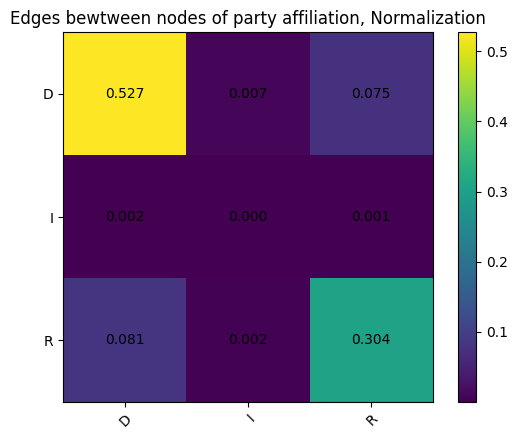
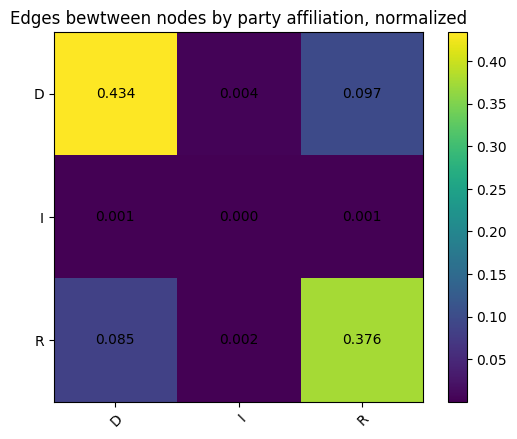
corrected text structure on index page

diff --git a/content/network-structure.md b/content/network-structure.md
@@ -21,35 +21,28 @@ To further investiage this, we compute the assortativity coefficient with respec
 
 ![](/images/matrixe.png)
 
-This results in an assortativity coefficient of 0.65. 
-This high party affiliation assortivity coefficient implies some social polarization based on party.
+This results in an assortativity coefficient of 0.62. 
+This high party affiliation assortivity coefficient implies social polarization based on party. With intra party communication of democrats and repuclicans being 30% and 50% of tweets respectively and inter party communication being 7.5% and 8.1% respectively.
 When doing this analysis it is important to mention that not all mentions/edges are communication betwee user, but some are simply members tagging or promoting other members campaigns. These have been included but arguments can be made for excluding them as they do not represent active conversation.
 
+## Community analysis based on party affiliation 
 <!-- Vi kigger nu på community party-party wise -->
-If we partition our network into 4 groups based on party affiliation, that is, a community for republicans, democrats, independents and non-alligned, we get a modularity of 0.2. This is a moderate number, and it indicates, that there might be better ways to partition the Congress than purely along party lines.
-
-Specifically, if we take a look at our graph, we see what appears to be four distinct communities along both party as well as chamber lines. 
-
+We now want to look into how to structure these communities. If we partition our network into 4 groups based only on party affiliation, that is, a community for republicans, democrats, independents and non-alligned, we get a modularity of 0.2. This is a moderate number, and it indicates, that there might be better ways to partition the Congress than purely along party lines. To do this we start by plotting the graph using Netwulf.
 
 ![](/images/DemsRepsNetwork.png)
 
-Partitioning our graph along party-chamber lines, we get a modularity of 0.25.
+From this graph, we can see what appears to be four distinct communities along both party as well as chamber lines. Using this 4-part partition along party-chamber lines, we get a modularity of 0.25. 
+When performing **???-test* both community partitions are statistically significant, indicating, that there is some truth to the idea, that Republicans and Democrats are polarized around party lines. At the very least, it indicates, that the amount of intra-party clustering the respective parties' chambers do is non-random, and that there therefore is a degree of polarization. 
+On the other hand, this polarization isn't complete; Our modularity when dividing along party lines is still moderate, and we see from the assortativity matrix, that there clearly occurs cross-party communication.
 
-Both numbers are statistically different from 0, indicating, that there might be some truth to the idea, that Republicans and Democrats are polarized around party lines. At the very least, it indicates, that the amount of intra-party clustering the respective parties' chambers do is non-random, and that there therefor is some degree of polarization. 
+<!-- Dette er allerede sagt i de forige sectioner.
+However, due to the moderate value of our modularity, we belive that we can still find  better clusterings than simply party-party or party-chamber.
+If we look at our assortativity, we furthermore get an indication of polarization among congressmember. We have an assortativity around party-lines above 0.6, clearly indicating, that there is a higher probability of congress members to communicate with their own party-peers than with those of the opposite party.However, as can be seen from the assortativity matrix, it isn't completely divided; We do see some cross-party communication. 
 
-However, due to the moderate value of our modularity, it is evident, that there are better clusterings than simply party-party or party-chamber.
+All of these statistics, seems to indication, that there is some level of polarization in the U.S congress. We see this in the way, that we get a modularity significantly different from 0 when we divide our graph into party-party or party-chamber, and through the high level of party-party assortavitiy. 
+ -->
 
-If we look at our assortativity, we furthermore get an indication of polarization among congressmember. We have an assortativity around party-lines above 0.6, clearly indicating, that there is a higher probability of congress members to communicate with their own party-peers than with those of the opposite party.
-
-However, as can be seen from the assortativity matrix, it isn't completely divided; We do see some cross-party communication. 
-
-Taking both of these statistics in combination, we get an indication, that there is some level of polarization in the U.S congress. We see this in the way, that we get a modularity significantly different from 0 when we divide our graph into party-party or party-chamber, and through the high level of party-party assortavitiy. On the other hand, this polarization isn't complete; Our modularity when dividing along party lines is still moderate, and we see from the assortativity matrix, that there clearly occurs cross-party communication.
-
-This indicates to us, that there are more complex mechanisms at play, that can describe the way that the two major parties in the U.S congress organize themselves. We suspect, that the best community partitions are centered around subjects and commitees, that is, they're centered around political issues rather than political parties.
-
-This follows the logic, that republicans tend to communicate more with republicans, not neccessarily because they're republicans. But rather, because they care about and therefore work with the same issues, which is the reason for why they're both republican to begin with. And vise versa for democrats. This might also explain why we do not have a complete polarization, as democrats and republicans that care about the same issues will most likely communicate with one another.
-
-We will explore this on the next page, where we will use the Louvain algorithm to find the optimal community partitioning. We will explore these partitionings for signs of polarization around party lines, and from there we will investigate, what may be the "center" for these partitionings.
+This indicates to us, that there are more complex mechanisms at play, that can describe the way that the two major parties in the U.S congress organize themselves. We suspect, that the best community partitions are centered around subjects and commitees, that is, they're centered around political issues rather than political parties. This follows the logic, that republicans tend to communicate more with republicans, not neccessarily because they're republicans. But rather, because they care about and therefore work with the same issues, which is the reason for why they're both republican to begin with. And vise versa for democrats. This might also explain why we do not have a complete polarization, as democrats and republicans that care about the same issues will most likely communicate with one another. We will explore this on the next [page](community-structure), where we will use the Louvain algorithm to find the optimal community partitioning. We will explore these partitionings for signs of polarization around party lines, and from there we will investigate, what may be the "center" for these partitionings.
 
 
 

diff --git a/content/_index.md b/content/_index.md
@@ -9,7 +9,9 @@ next: data-description
     Background på US congress  
 --->
 
-The United States Congress is the the legislature of the United States Government [[1]](https://en.wikipedia.org/wiki/United_States_Congress). It is responsible for creating and ractifying exisitnig laws. It is composed of two chambers the senate with 100 elected officials and the house with 435 elected officials giving a total of 534. All members of both houses are elected by the public which means that they all need to have good public relations. This is where social media comes into play. Social media is a great way to reach out to the public and show what they are doing and why voters should vote for them over the competition.
+![](/images/us-congress.jpeg)
+
+The United States Congress is the legislature of the United States Government [[1]](https://en.wikipedia.org/wiki/United_States_Congress). It is responsible for creating and ractifying exisitnig laws. It is composed of two chambers. The senate with 100 elected officials and the house with 435 elected officials giving a total of 534. All members of both houses are elected by the public which means that they all need to have good public relations. In todays world, one of the best ways to reach out to the public is through social media. As it allows for easy communication with other elected officials and the public. 
 
 <!---  
     Hvad vi gerne vil undersøge
@@ -17,16 +19,16 @@ The United States Congress is the the legislature of the United States Governmen
 
 # In this report, we want to explore how the US Congress communicates on twitter.
 
-It seems like there is a lot of talk about polarization in US politics between democrats and republicans in the news. We would like to explore whether this polarization exists in reality, that is, do democrats and republicans actually never cooperate, or this just an image potrayed by the media?
-As a proxy measurement for this, we've decided to look at twitter exchanges between members of the U.S congress and organization related to these in order to look for patterns that may tell us, how the U.S congress communciates. Our data consists of tweets made by members of congress, governmental organization and caucuses from 2017-2023 plus data like political affiliation and region of the different political users. [Dataset](data-description)
+It seems like there is a lot of talk in the news about polarization in US politics between democrats and republicans. We would like to explore whether this polarization exists in reality, that is, do democrats and republicans actually never cooperate, or this just an image potrayed by the media?
+As a proxy measurement for this, we've decided to look at twitter exchanges between members of the U.S congress and organization related to these in order to look for patterns that may tell us, how the U.S congress communciates. Our data consists of tweets made by members of congress, governmental organization and caucuses from 2017-2023 including data such as political affiliation and region of the different political users. The dataset is described in the [Dataset](data-description) section.
 
-Specifically, we start off by investigating the relationship between democrats and republicans to establish, whether our big community (the U.S congress) can in fact be divided into seperate communities based on political affiliation. We do this by looking at the modularity of dividing the users into communities based on political affiliation. We also look at the assortativity between the different political affiliation. [Network-structure](network-structure)
+Specifically, we start off by investigating the relationship between democrats and republicans to establish, whether our big community (the U.S congress) can in fact be divided into seperate communities based on political affiliation. We do this by looking at the modularity of dividing the users into communities based on political affiliation. We also look at the assortativity between the different political affiliation in the section [Network-structure](network-structure).
 
-Should our hypothesis, that the U.S congress is polarized not undoubtadly hold, we would like to investiage what relations that actually best describe the way the U.S congress communicates and organizes itself. We do this by dividing the different Twitter users into communities with the help of the Louvain algorithm. From here, we look to see if the modularity increases, that is, do we get a better community partitioning. [Community-structure](community-structure)
+Should our hypothesis, that the U.S congress is polarized not undoubtadly hold, we would like to investiage what relations that actually best describe the way the U.S congress communicates and organizes itself. We do this by dividing the different Twitter users into communities with the help of the Louvain algorithm in section [Community-structure](community-structure). 
 
-From here we would like to see, what underlying structures, if not political party, that binds the different communities together. Is it a special commitee that they talk a lot about, a law or a maybe a more general topic like foreign policy or welfare? We do this by doing text analysis on the biggest communities to see which keywords that describe them best. We would furthermore also like to do some wordclouds on these communities. [Congressional-communities](congressional-communities)
+From here we would like to see, what underlying structures, if not political party, that binds the different communities together. Is it a special commitee that they talk a lot about, a law or a maybe a more general topic like foreign policy or welfare? We do this in section  [Congressional-communities](congressional-communities) by doing text analysis on the biggest communities to see which keywords that describe them best. 
 
-Finally, we would like to see, how the relationship between democrats and republicans has changed over the years. We do this by looking at the democrat-republican modularity and associativity throughout the years. We also look at what has changed in the two parties' talking points by doing TF-IDF on the two parties' corpuses throughout the years. [Evolving-dynamics](evolving-dynamics)
+Finally, we would like to see, how the relationship between democrats and republicans has changed over the years. We do this by looking at the democrat-republican modularity and associativity throughout the years. We also look at what has changed in the two parties' talking points by doing TF-IDF on the two parties' corpuses throughout the years. In the section [Evolving-dynamics](evolving-dynamics).
 
 
 <!---

diff --git a/content/data-description.md b/content/data-description.md
@@ -72,7 +72,7 @@ The graph contains ?? nodes and ???? edges. The distribution of degree of edges 
 
 ![](/images/degree-distribution.png)
 
-From the graph we can see that the distribution of degree of edges is very skewed. This means that there are a few nodes with a very high degree and a lot of nodes with a very low degree. This is expected as there are a few users who are very active on twitter and a lot of users who are not. **Which looks like it could follow a power law (EXPAND??)**
+From the graph we can see that the distribution of degree of edges is very skewed. This means that there are a few nodes with a very high degree and a lot of nodes with a very low degree. This is expected as there are a few users who are very active on twitter and a lot of users who are not. When plotting the distribution on a log-log scale we can see that the distribution looks to loosely follow a power law. With parameters:$$C=0.002, \gamma=1.182$$.
 
 
 <!--- 

diff --git a/content/congressional-communities.md b/content/congressional-communities.md
@@ -34,8 +34,16 @@ TF-IDF
 | 4 | rm, chm, democracy, allies, partners, ccp, chinese, humanitarian, hong, attack |
 | 5 | wyoming, dnd, nazilinked, duplication, gregg, outlook, laramie, cbos, deliberating, wyomings |
 
+Top accounts
+| Partition | Top 3 accounts |
+| --- | --- |
+| 0 | House Democrats, House Committee on the Judiciary, Hispanic Caucus |
+| 1 | House Republicans, House Committee on Energy and Commerce, House Committee on Ways and Means |
+| 2 | Senate Republicans, John Cornyn, Ted Cruz |
+| 3 | Senate Democrats, Chuck Schumer, Dick Durbin |
+| 4 | House Committee on Foreign Affairs, Michael McCaul, Gregory Meeks |
 
-## Word clouds
+## Word clouds 
 ![](/images/wordcloud.png)
 
 
